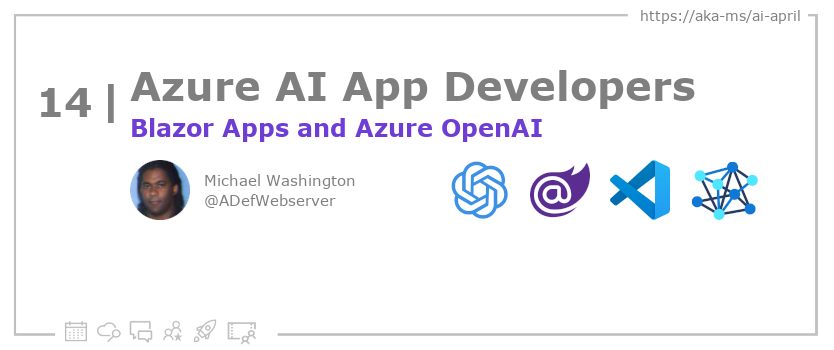
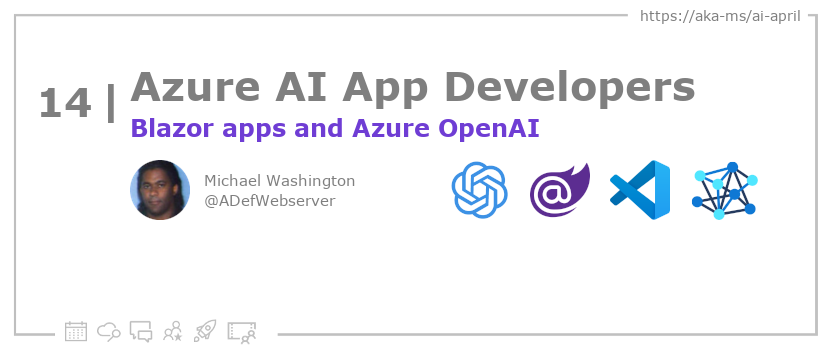
docs

Changed region(s): [[0.2494, 0.3429, 0.6547, 0.4]]

diff --git a/website/blog/2023-aia/2023-04-10-azure-cog-openai-sdks/index.md b/website/blog/2023-aia/2023-04-10-azure-cog-openai-sdks/index.md
@@ -1,6 +1,6 @@
 ---
 slug: 2023-day9
-title: "9. 🧑💻Build intelligent Apps w/ Azure AI SDKs"
+title: "9. 🧑💻Build intelligent apps w/ Azure AI SDKs"
 authors: ['Arun']
 draft: false
 hide_table_of_contents: false

diff --git a/website/blog/2023-aia/2023-04-15-openai-blazer/index.md b/website/blog/2023-aia/2023-04-15-openai-blazer/index.md
@@ -1,6 +1,6 @@
 ---
 slug: 2023-day14
-title: "14. 🧑💻Blazor Apps and Azure OpenAI"
+title: "14. 🧑💻Blazor apps and Azure OpenAI"
 authors: ['Michael']
 draft: false
 hide_table_of_contents: false
